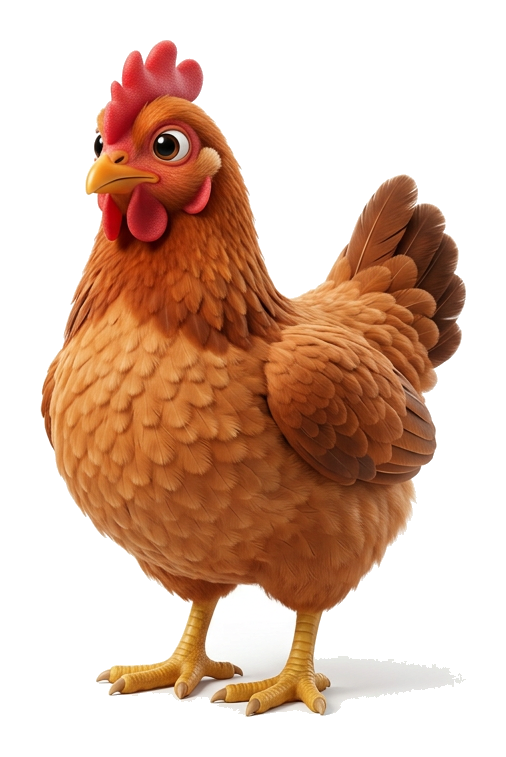
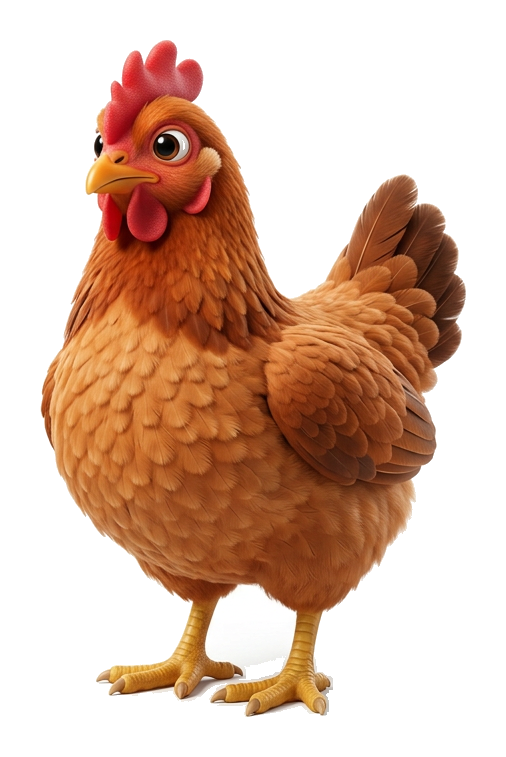
fix(chicken): 换一体化纵向背景 + 新鸡图,抓鸡屏视觉重做
- 新 bg-catch-scene 把木牌/樱花/山丘/花草合成一张 571x1024,删掉 grass-strip 条带
- 更新 chicken-2~8 新素材,img 加底部 mask-image 渐隐擦除烘焙的白色地面投影
- 鸡本体加大到 320px,纵向预算放宽到 55dvh;布局改 absolute + bottom clamp 浮在草地中部
- 号码牌换暖米色半透明 + 暖棕描边,去掉抢戏的白色高光圈
- "选中即为输家"提示加琥珀色胶囊背景,跟落日樱花调融合
- Ma Shan Zheng 毛笔字改 display=block + preload,避免宋体→毛笔字 FOUT 闪烁

Made-with: Cursor

diff --git a/src/components/screens/ChickenCatchScreen.tsx b/src/components/screens/ChickenCatchScreen.tsx
@@ -8,7 +8,7 @@ import {
   playFileSfx,
   preloadFileSfx,
 } from '../../hooks/useSound';
-import { getChickenSrc, BG_CATCH_SCENE, GRASS_STRIP } from '../../assets/images';
+import { getChickenSrc, BG_CATCH_SCENE } from '../../assets/images';
 
 /** 玩家确定后播放的"鸡鸣"音效(用户提供的 mp3 文件)。 */
 const CHICKEN_CROW_SFX = '/assets/sfx/chicken-caught.mp3';
@@ -214,16 +214,19 @@ function ChickenFigure({
           </div>
         )}
 
-        {/* 地面阴影 */}
+        {/* 地面阴影 —— 加大加深,让鸡像真的踩在草地里,
+              同时盖住 PNG 底部任何残留的浅色像素 */}
         <div
           className="pointer-events-none absolute left-1/2 -translate-x-1/2"
           style={{
-            bottom: 2,
-            width: 88 * scale,
-            height: 12 * scale,
+            bottom: 6 * scale,
+            width: 150 * scale,
+            height: 22 * scale,
             borderRadius: '50%',
-            background: 'radial-gradient(ellipse, rgba(0,0,0,0.55) 0%, transparent 70%)',
-            zIndex: 0,
+            background:
+              'radial-gradient(ellipse, rgba(20,30,10,0.55) 0%, rgba(20,30,10,0.30) 35%, transparent 75%)',
+            filter: 'blur(2px)',
+            zIndex: 1,
           }}
         />
 
@@ -245,7 +248,10 @@ function ChickenFigure({
           />
         )}
 
-        {/* === 鸡本体 === */}
+        {/* === 鸡本体 ===
+          * 用 mask-image 把底部那一小段(原 PNG 渲染时烤进去的浅灰地板阴影)渐变淡出,
+          * 让鸡脚自然过渡到透明,不再有"鸡脚旁的白色斑块"
+          */}
         <img
           src={getChickenSrc(number)}
           alt={`老${CN_NUM[number]}号小鸡`}
@@ -260,6 +266,11 @@ function ChickenFigure({
             userSelect: 'none',
             pointerEvents: 'none',
             filter: 'drop-shadow(0 3px 6px rgba(0,0,0,0.3))',
+            // 底部 8% 渐隐 → 把图里烘焙的白色地面投影擦掉,只保留鸡脚
+            maskImage:
+              'linear-gradient(to bottom, black 0%, black 92%, transparent 100%)',
+            WebkitMaskImage:
+              'linear-gradient(to bottom, black 0%, black 92%, transparent 100%)',
           }}
         />
 
@@ -282,7 +293,6 @@ function ChickenNumber({ number, scale }: { number: number; scale: number }) {
   const plateW = Math.round(fontSize * 1.18);
   const plateH = Math.round(fontSize * 1.18);
   const radius = Math.max(2, 3 * safeScale);
-  const borderW = Math.max(1.4, 2 * safeScale);
   const posY = NUMBER_POS_Y[number] ?? 0.60;
 
   return (
@@ -300,12 +310,17 @@ function ChickenNumber({ number, scale }: { number: number; scale: number }) {
           width: plateW,
           height: plateH,
           borderRadius: radius,
-          // 半透明的米白纸感(对齐设计稿——能透出鸡羽毛的颜色,不是死白纸)
-          background: 'rgba(252, 248, 232, 0.55)',
-          border: `${borderW}px solid rgba(38, 24, 12, 0.85)`,
-          boxShadow:
-            '0 2px 5px rgba(0,0,0,0.4), 0 1px 0 rgba(255,255,255,0.35) inset',
-          backdropFilter: 'blur(2px)',
+          // 暖米色半透明纸牌 —— 跟落日樱花暖色调融合,
+          // 不再是抢眼的纯白磨砂玻璃,鸡看上去自然不僵硬
+          background: 'rgba(248, 232, 200, 0.55)',
+          border: 'none',
+          // 只保留极淡的暗轮廓 + 立体投影,去掉抢戏的白色高光圈
+          boxShadow: [
+            '0 0 0 1px rgba(82, 50, 22, 0.28)',   // 暖棕色细描边代替白光圈
+            '0 3px 7px rgba(0,0,0,0.28)',         // 柔和投影
+          ].join(', '),
+          backdropFilter: 'blur(3px)',
+          WebkitBackdropFilter: 'blur(3px)',
           display: 'flex',
           alignItems: 'center',
           justifyContent: 'center',
@@ -413,15 +428,15 @@ export default function ChickenCatchScreen() {
   const maxRowLen = Math.max(...rows.map((r) => r.length));
 
   // 缩放按「最宽一排」宽度约束 + 纵向空间预算两路约束，取较小者
-  const baseChickenW = 260;
+  const baseChickenW = 320; // 比之前 260 加大,让鸡更醒目
   const baseGap = maxRowLen >= 4 ? 4 : maxRowLen >= 3 ? 8 : 14;
   const stagePadding = 16;
   const usable = Math.max(0, stageW - stagePadding);
   const totalNeeded = maxRowLen * baseChickenW + (maxRowLen - 1) * baseGap;
   const scaleByW = stageW > 0 && totalNeeded > usable ? usable / totalNeeded : 1;
-  // 纵向约束：最多 45% dvh 给鸡群，防止两排鸡挤掉下方按钮
+  // 纵向约束：放宽到 55% dvh,让鸡占满下半部草地区域
   const budgetH =
-    typeof window !== 'undefined' ? window.innerHeight * 0.45 : 380;
+    typeof window !== 'undefined' ? window.innerHeight * 0.55 : 460;
   const verticalNeeded = rows.length * baseChickenW + (rows.length - 1) * 6;
   const scaleByH = verticalNeeded > budgetH ? budgetH / verticalNeeded : 1;
   const chickenScale = Math.min(scaleByW, scaleByH);
@@ -437,33 +452,17 @@ export default function ChickenCatchScreen() {
         backgroundColor: '#1f3e10',
       }}
     >
-      {/* 1) 背景图 —— 用 object-fit: cover 铺满整个视口,
-            竖屏手机也能 100% 填满高度,不再有"中间一片纯色" */}
+      {/* 背景图 —— 用户提供的纵向 571x1024 构图,
+            木牌"选择要抓的鸡" + 樱花林 + 山丘小道 + 花草地全部一体 */}
       <img
         src={BG_CATCH_SCENE}
-        alt="樱花林木牌"
+        alt="选择要抓的鸡 - 樱花林"
         draggable={false}
         className="absolute inset-0 h-full w-full select-none"
         style={{
           objectFit: 'cover',
-          objectPosition: 'center top',
+          objectPosition: 'center center',
           zIndex: 0,
-          pointerEvents: 'none',
-        }}
-      />
-
-      {/* 2) 草地条 —— 贴视口底部,鸡正好站在雏菊+花瓣上 */}
-      <img
-        src={GRASS_STRIP}
-        alt=""
-        aria-hidden
-        draggable={false}
-        className="absolute inset-x-0 bottom-0 w-full select-none"
-        style={{
-          height: 'clamp(140px, 24vh, 220px)',
-          objectFit: 'cover',
-          objectPosition: 'center bottom',
-          zIndex: 1,
           pointerEvents: 'none',
         }}
       />
@@ -504,14 +503,16 @@ export default function ChickenCatchScreen() {
       {/* 4) 入场动画的隐藏锚点 */}
       <div ref={titleRef} aria-hidden style={{ height: 0, width: 0 }} />
 
-      {/* 5) 主内容区 —— absolute 占满,内部用 flex 把鸡群+底部按钮挤到下方 */}
-      <div className="absolute inset-0 z-10 flex flex-col items-center justify-end pb-4 sm:pb-8">
-
-      {/* 舞台 —— 鸡群直接站在草地条上 */}
-      <div className="flex flex-col items-center px-5">
+      {/* 5) 鸡群舞台 —— 用 absolute + bottom 让鸡群浮在草地"中部"
+            而不是贴底,让脚下还能露出一点花草地,跟设计图一致
+            ⚠ stageRef 必须挂在 w-full 容器上避免 ResizeObserver 循环 */}
+      <div
+        className="absolute inset-x-0 z-10 flex flex-col items-center"
+        style={{ bottom: 'clamp(110px, 22vh, 220px)' }}
+      >
         <div
           ref={stageRef}
-          className="relative w-full max-w-[720px] overflow-visible py-2"
+          className="relative w-full max-w-[720px] overflow-visible px-5 py-2"
         >
           {/* 鸡群：>4 只自动换两排，每排居中 */}
           <div
@@ -547,8 +548,8 @@ export default function ChickenCatchScreen() {
         </div>
       </div>
 
-      {/* 底部操作 */}
-      <div className="flex flex-col items-center gap-2 px-6 pb-2 pt-3 sm:gap-3 sm:pb-4 sm:pt-4">
+      {/* 6) 底部操作区 —— 永远贴视口底,跟鸡群分开布局以便鸡群独立调位置 */}
+      <div className="absolute inset-x-0 bottom-0 z-20 flex flex-col items-center gap-2 px-6 pb-3 pt-2 sm:gap-3 sm:pb-5">
         <AnimatePresence mode="wait">
           {selected === null ? (
             <motion.div
@@ -556,8 +557,14 @@ export default function ChickenCatchScreen() {
               initial={{ opacity: 0, y: 6 }}
               animate={{ opacity: 1, y: 0 }}
               exit={{ opacity: 0 }}
-              className="text-center text-[12px] tracking-wider"
-              style={{ color: '#9a9080' }}
+              className="rounded-full px-4 py-1.5 text-center text-[12px] font-bold tracking-wider"
+              style={{
+                color: '#fff8e0',
+                background: 'rgba(20,12,4,0.5)',
+                border: '1px solid rgba(255,220,140,0.35)',
+                boxShadow: '0 2px 8px rgba(0,0,0,0.35)',
+                backdropFilter: 'blur(6px)',
+              }}
             >
               小鸡 2 ~ {np} 号 · 选中即为输家
             </motion.div>
@@ -621,8 +628,6 @@ export default function ChickenCatchScreen() {
           )}
         </AnimatePresence>
       </div>
-
-      </div>{/* /主内容区 */}
 
       {/* 鸡鸣瞬间柔和的金色暖光过场 */}
       <AnimatePresence>

diff --git a/index.html b/index.html
@@ -6,7 +6,16 @@
     <meta name="viewport" content="width=device-width, initial-scale=1.0, maximum-scale=1.0, user-scalable=no" />
     <link rel="preconnect" href="https://fonts.googleapis.com" />
     <link rel="preconnect" href="https://fonts.gstatic.com" crossorigin />
-    <link href="https://fonts.googleapis.com/css2?family=Noto+Serif+SC:wght@700;900&family=Ma+Shan+Zheng&display=swap" rel="stylesheet" />
+    <!-- Noto Serif SC: 用于按钮/标题,允许 swap (差异不大) -->
+    <link href="https://fonts.googleapis.com/css2?family=Noto+Serif+SC:wght@700;900&display=swap" rel="stylesheet" />
+    <!--
+      Ma Shan Zheng: 抓鸡屏号码牌专用毛笔字。
+      用 display=block 而不是 swap,避免出现"先用宋体显示再切换成毛笔字"的丑陋闪烁(FOUT)。
+      block 模式下文字会先 invisible 最多 3 秒等待字体加载,加载完才出现。
+      首次加载后浏览器会缓存,后续都瞬时可用。
+    -->
+    <link rel="preload" as="style" href="https://fonts.googleapis.com/css2?family=Ma+Shan+Zheng&display=block" />
+    <link href="https://fonts.googleapis.com/css2?family=Ma+Shan+Zheng&display=block" rel="stylesheet" />
     <title>分轮倍增赛 - JosonPoker</title>
   </head>
   <body>

diff --git a/src/assets/images.ts b/src/assets/images.ts
@@ -18,10 +18,8 @@ export const TABLE_LANDSCAPE = '/assets/table-landscape.png';
 export const LOADING_PORTRAIT = '/assets/loading-portrait.jpg';
 export const LOADING_LANDSCAPE = '/assets/loading-landscape.png';
 export const CHICKEN_POSE = '/assets/chicken-pose.png';
-/** 抓鸡场景背景：樱花林金色晨光 */
+/** 抓鸡场景背景：纵向构图(571x1024),木牌+樱花林+山丘+花草路径,一张图完成 */
 export const BG_CATCH_SCENE = '/assets/bg-catch-scene.png';
-/** 从背景图底部裁出的草地+雏菊+花瓣条带,贴在抓鸡屏鸡群脚下 */
-export const GRASS_STRIP = '/assets/grass-strip.png';
 
 /** 抓鸡场景：编号 2~8 各自一张独特的 3D Pixar 风格鸡 PNG */
 export function getChickenSrc(num: number): string {
@@ -42,7 +40,6 @@ export function collectPreloadList(): string[] {
     LOADING_LANDSCAPE,
     CHICKEN_POSE,
     BG_CATCH_SCENE,
-    GRASS_STRIP,
   ];
   for (let n = 2; n <= 8; n++) {
     list.push(getChickenSrc(n));
